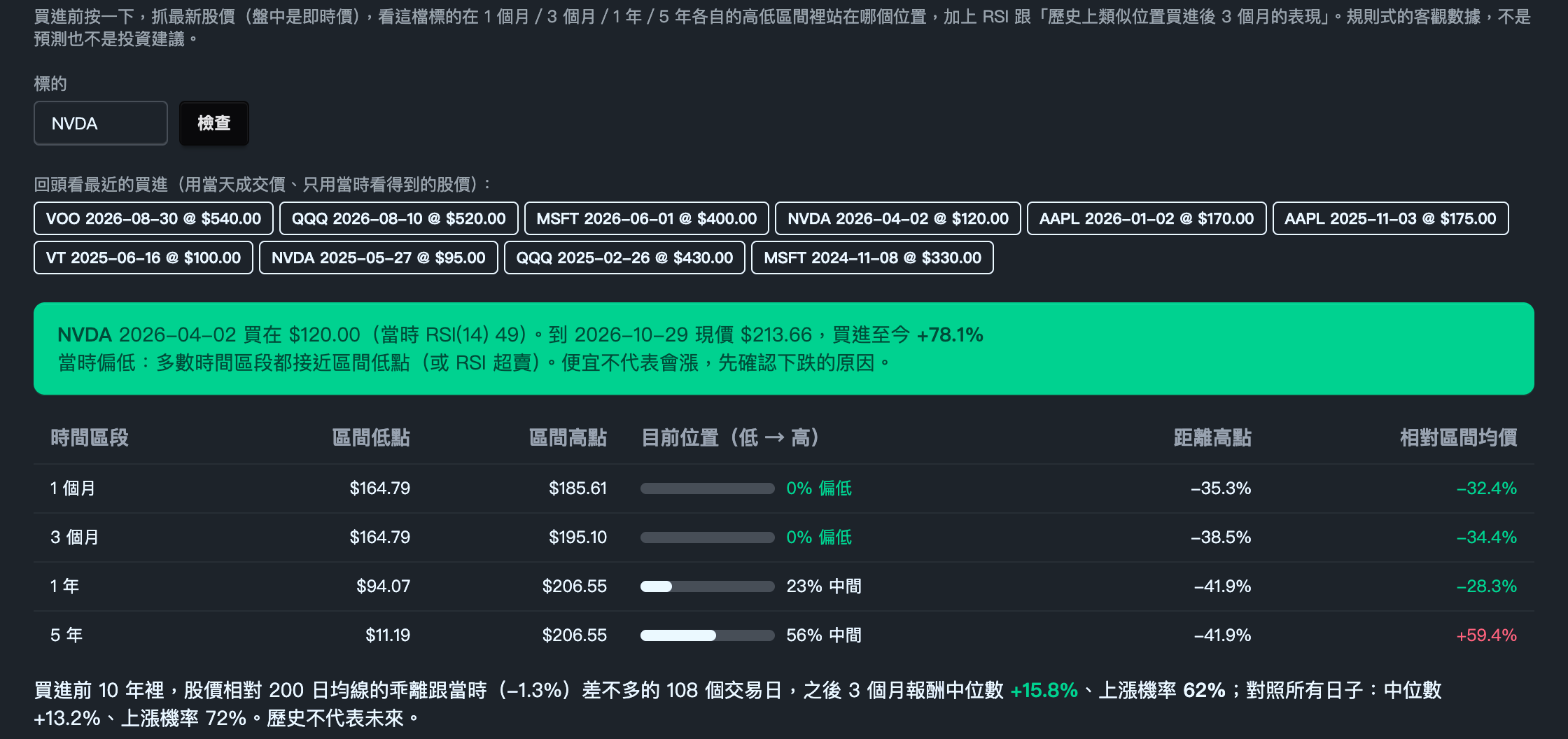
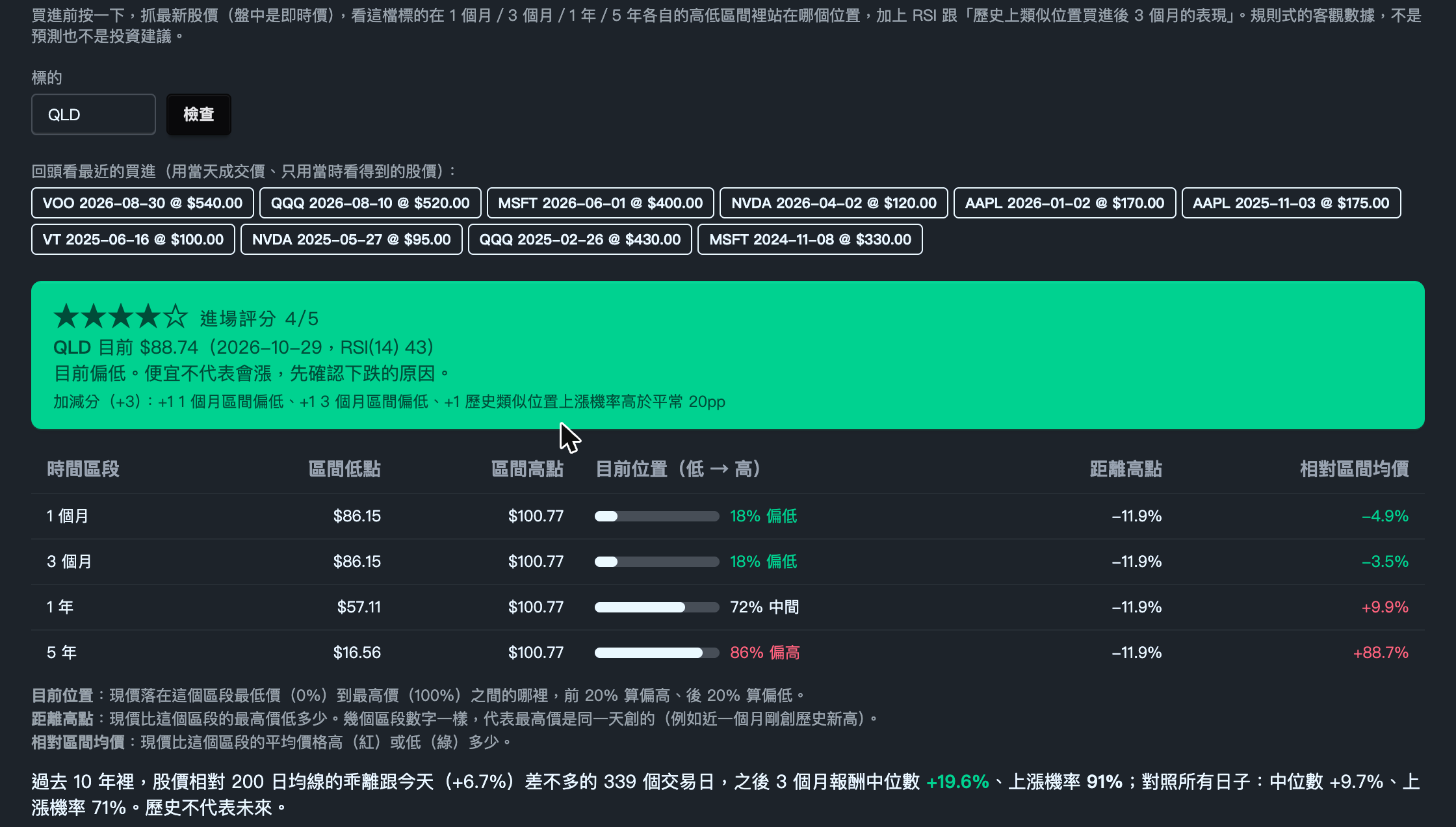
進場檢查：加上 1–5 星進場評分、加減分理由與欄位說明（issue #414） (#415)

diff --git a/app/templates/sections/entry_check.html b/app/templates/sections/entry_check.html
@@ -37,6 +37,11 @@
             <tbody id="entry-tbody"></tbody>
           </table>
         </div>
+        <div class="text-xs opacity-60 mt-2 space-y-0.5">
+          <div><b>目前位置</b>：現價落在這個區段最低價（0%）到最高價（100%）之間的哪裡，前 20% 算偏高、後 20% 算偏低。</div>
+          <div><b>距離高點</b>：現價比這個區段的最高價低多少。幾個區段數字一樣，代表最高價是同一天創的（例如近一個月剛創歷史新高）。</div>
+          <div><b>相對區間均價</b>：現價比這個區段的平均價格高（紅）或低（綠）多少。</div>
+        </div>
         <div id="entry-similar" class="text-sm mt-3"></div>
       </div>
     </div>
@@ -51,9 +56,9 @@ const ENTRY_ZONE = {
   low: { cls: 'text-success', label: '偏低' },
 };
 const ENTRY_VERDICT = {
-  high: ['alert-warning', '目前偏高：多數時間區段都接近區間高點（或 RSI 超買）。如果還是要買，可以考慮分批進場、或等回檔，避免一次全押在高點。'],
+  high: ['alert-warning', '目前偏高。如果還是要買，可以考慮分批進場、或等回檔，避免一次全押在高點。'],
   mid: ['alert-info', '目前位置中性：沒有明顯在高點或低點。'],
-  low: ['alert-success', '目前偏低：多數時間區段都接近區間低點（或 RSI 超賣）。便宜不代表會漲，先確認下跌的原因。'],
+  low: ['alert-success', '目前偏低。便宜不代表會漲，先確認下跌的原因。'],
 };
 
 async function loadEntryRecentBuys() {
@@ -98,7 +103,14 @@ async function loadEntryCheck(pastBuy = null) {
     ? `<b>${escapeHtml(data.symbol)}</b> ${escapeHtml(data.as_of)} 買在 ${fmtPrice(data.price)}${data.rsi == null ? '' : `（當時 RSI(14) ${data.rsi.toFixed(0)}）`}。` +
       `到 ${escapeHtml(sb.current_date)} 現價 ${fmtPrice(sb.current_price)}，買進至今 <b>${fmtPct(sb.return)}</b>`
     : `<b>${escapeHtml(data.symbol)}</b> 目前 ${fmtPrice(data.price)}（${escapeHtml(data.as_of)}${rsiText}）`;
-  verdictBox.innerHTML = `<div>${head}<br>${sb ? verdictText.replace(/^目前/, '當時') : verdictText}</div>`;
+  const starText = '★'.repeat(data.stars) + '☆'.repeat(5 - data.stars);
+  const reasonsText = data.reasons.length === 0
+    ? '各項都沒有明顯訊號'
+    : data.reasons.map(r => `${r.points > 0 ? '+1' : '−1'} ${escapeHtml(r.text)}`).join('、');
+  verdictBox.innerHTML = `<div>` +
+    `<div class="text-xl tracking-wider" aria-label="進場評分 ${data.stars} 顆星">${starText} <span class="text-sm">${sb ? '當時' : ''}進場評分 ${data.stars}/5</span></div>` +
+    `${head}<br>${sb ? verdictText.replace(/^目前/, '當時') : verdictText}` +
+    `<div class="text-xs mt-1">加減分（${data.score >= 0 ? '+' : ''}${data.score}）：${reasonsText}</div></div>`;
 
   document.getElementById('entry-tbody').innerHTML = data.windows.map(w => {
     const zone = ENTRY_ZONE[w.zone];

diff --git a/app/domain/analytics/entry_check.py b/app/domain/analytics/entry_check.py
@@ -68,13 +68,48 @@ def similar_setups(closes: pd.Series) -> dict | None:
     }
 
 
-def verdict(windows: list[dict], rsi: float | None) -> str:
-    # ponytail: simple vote over 1M/3M/1Y zones + RSI; 5Y left out because
-    # long uptrends sit near the 5Y high most of the time.
-    zones = [w["zone"] for w in windows[:3]]
-    if zones.count("high") >= 2 or (rsi is not None and rsi >= RSI_OVERBOUGHT):
+WIN_RATE_EDGE = 0.05  # similar-setup win rate vs baseline, in pp
+
+
+def entry_score(windows: list[dict], rsi: float | None, similar: dict | None) -> tuple[int, list[dict]]:
+    """+/-1 per signal (issue #414). 5Y is left out because long uptrends sit
+    near the 5Y high most of the time. Returns (score, reasons)."""
+    # ponytail: equal weights, hand-picked thresholds; tune here if they mislead.
+    reasons = []
+    for w in windows[:3]:
+        if w["zone"] == "low":
+            reasons.append({"points": 1, "text": f"{w['label']}區間偏低"})
+        elif w["zone"] == "high":
+            reasons.append({"points": -1, "text": f"{w['label']}區間偏高"})
+    if rsi is not None and rsi <= RSI_OVERSOLD:
+        reasons.append({"points": 1, "text": f"RSI {rsi:.0f} 超賣"})
+    elif rsi is not None and rsi >= RSI_OVERBOUGHT:
+        reasons.append({"points": -1, "text": f"RSI {rsi:.0f} 超買"})
+    if similar is not None:
+        edge = similar["win_rate"] - similar["baseline_win_rate"]
+        if edge >= WIN_RATE_EDGE:
+            reasons.append({"points": 1, "text": f"歷史類似位置上漲機率高於平常 {edge * 100:.0f}pp"})
+        elif edge <= -WIN_RATE_EDGE:
+            reasons.append({"points": -1, "text": f"歷史類似位置上漲機率低於平常 {-edge * 100:.0f}pp"})
+    return sum(r["points"] for r in reasons), reasons
+
+
+def stars(score: int) -> int:
+    if score >= 4:
+        return 5
+    if score >= 2:
+        return 4
+    if score >= -1:
+        return 3
+    if score >= -3:
+        return 2
+    return 1
+
+
+def verdict(star_count: int) -> str:
+    if star_count <= 2:
         return "high"
-    if zones.count("low") >= 2 or (rsi is not None and rsi <= RSI_OVERSOLD):
+    if star_count >= 4:
         return "low"
     return "mid"
 
@@ -96,14 +131,20 @@ def check_entry(symbol: str, as_of: date | None = None, buy_price: float | None 
     ]
     latest_rsi = compute_rsi(closes).iloc[-1]
     rsi = None if pd.isna(latest_rsi) else float(latest_rsi)
+    similar = similar_setups(closes)
+    score, reasons = entry_score(windows, rsi, similar)
+    star_count = stars(score)
     result = {
         "symbol": symbol,
         "price": price,
         "as_of": closes.index[-1].strftime("%Y-%m-%d"),
         "rsi": rsi,
         "windows": windows,
-        "similar": similar_setups(closes),
-        "verdict": verdict(windows, rsi),
+        "similar": similar,
+        "score": score,
+        "reasons": reasons,
+        "stars": star_count,
+        "verdict": verdict(star_count),
     }
     if as_of is not None:
         result["as_of"] = as_of.isoformat()  # the buy date, even on a non-trading day

diff --git a/tests/test_entry_check.py b/tests/test_entry_check.py
@@ -23,14 +23,19 @@ def demo():
     # flat window doesn't divide by zero.
     assert ec.window_stats(pd.Series([5.0, 5.0]), 2)["position"] == 0.5
 
-    # verdict: 2 of the short/mid/long windows high -> high; RSI overrides;
+    # score: +/-1 per 1M/3M/1Y zone, RSI extreme, similar-setup edge;
     # 5Y (4th window) doesn't vote.
-    w = lambda z: {"zone": z}
-    assert ec.verdict([w("high"), w("high"), w("mid"), w("high")], 50) == "high"
-    assert ec.verdict([w("mid"), w("mid"), w("mid"), w("high")], 50) == "mid"
-    assert ec.verdict([w("mid"), w("mid"), w("mid")], 75) == "high"
-    assert ec.verdict([w("low"), w("low"), w("mid")], 50) == "low"
-    assert ec.verdict([w("mid")], None) == "mid"
+    w = lambda z: {"zone": z, "label": "x"}
+    sim = lambda win, base: {"win_rate": win, "baseline_win_rate": base}
+    assert ec.entry_score([w("high")] * 4, 50, None)[0] == -3
+    assert ec.entry_score([w("mid"), w("mid"), w("mid"), w("high")], 50, None)[0] == 0
+    score, reasons = ec.entry_score([w("low"), w("low"), w("mid")], 25, sim(0.91, 0.71))
+    assert score == 4 and len(reasons) == 4
+    assert ec.entry_score([w("mid")], 75, sim(0.60, 0.70))[0] == -2
+    assert ec.entry_score([w("mid")], None, sim(0.73, 0.70))[0] == 0  # under 5pp edge
+    # stars: boundaries of the score -> 1..5 mapping; verdict follows stars.
+    assert [ec.stars(x) for x in (5, 4, 3, 2, 1, 0, -1, -2, -3, -4, -5)] == [5, 5, 4, 4, 3, 3, 3, 2, 2, 1, 1]
+    assert [ec.verdict(x) for x in (1, 2, 3, 4, 5)] == ["high", "high", "mid", "low", "low"]
 
     # end-to-end: a steady uptrend ends at the top of every window, and
     # every past forward-3M return was positive.
@@ -41,6 +46,7 @@ def demo():
     assert [x["label"] for x in result["windows"]] == ["1 個月", "3 個月", "1 年", "5 年"]
     assert all(x["zone"] == "high" for x in result["windows"])
     assert result["verdict"] == "high"
+    assert result["score"] == -4 and result["stars"] == 1  # 3 windows high + RSI overbought
     assert result["similar"]["win_rate"] == 1.0
     assert result["similar"]["baseline_win_rate"] == 1.0
 

diff --git a/CHANGELOG.md b/CHANGELOG.md
@@ -4,6 +4,10 @@
 
 摘要版功能總覽請看 [README](README.md#功能)。
 
+## 2026-10-30（進場檢查：五星評分）
+
+- 進場檢查加上 1–5 星「進場評分」（issue #414）：`entry_score` 對 1 個月／3 個月／1 年區間位置、RSI 超買超賣、歷史類似位置的上漲機率 vs 基準（差 5pp 以上）各給 ±1，`stars` 換成星等（≥4→5、≥2→4、−1～1→3、≥−3→2、其餘 1），每一項理由都列出來。偏高／中性／偏低改由星等決定，不再另外投票，兩者不會矛盾（RSI 超買單獨一項不再直接判定偏高）。表格下方加上目前位置／距離高點／相對區間均價的說明。
+
 ## 2026-10-30（進場檢查：回頭看過去的買進）
 
 - 進場檢查可以回頭看某筆買進（issue #412）：區塊下方列出最近 10 筆 `BOUGHT`（`/api/entry-check/recent-buys`），點一下用 `check_entry(symbol, as_of, buy_price)` 重算——股價只用到買進那天（不偷看之後的資料）、區間位置用實際成交價，另附買進至今報酬。成交價可能超出當時收盤區間（盤中高低），區間位置改為夾在 0–100%。
